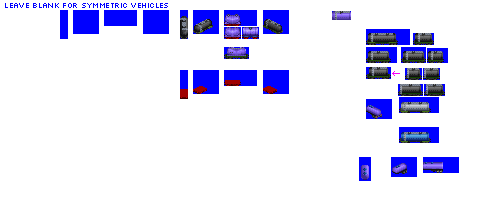
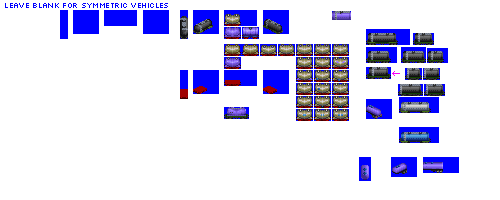
Change: WIP on silo cars

Changed region(s): [[0.45, 0.21, 0.72, 0.63], [0.45, 0.51, 0.51, 0.6], [0.45, 0.06, 0.48, 0.12]]

diff --git a/src/iron_horse.py b/src/iron_horse.py
@@ -53,7 +53,7 @@ from vehicles import plate_cars
 from vehicles import reefer_cars
 from vehicles import sliding_wall_cars
 from vehicles import stake_cars
-#from vehicles import silo_cars
+from vehicles import silo_cars
 from vehicles import tank_cars
 from vehicles import tarpaulin_cars
 #from vehicles import vehicle_transporter_cars
@@ -137,10 +137,7 @@ def main():
     passenger_cars.main()
     plate_cars.main()
     reefer_cars.main()
-    """
-    # commented out for 2.x
     silo_cars.main()
-    """
     sliding_wall_cars.main()
     stake_cars.main()
     tank_cars.main()

diff --git a/src/vehicles/silo_cars.py b/src/vehicles/silo_cars.py
@@ -11,7 +11,7 @@ def main():
                              sprites_complete=False)
 
     consist.add_unit(type=FreightCar,
-                     chassis='2_axle_filled_16px')
+                     chassis='2_axle_gapped_16px')
 
 
     consist = SiloCarConsist(roster_id='pony',
